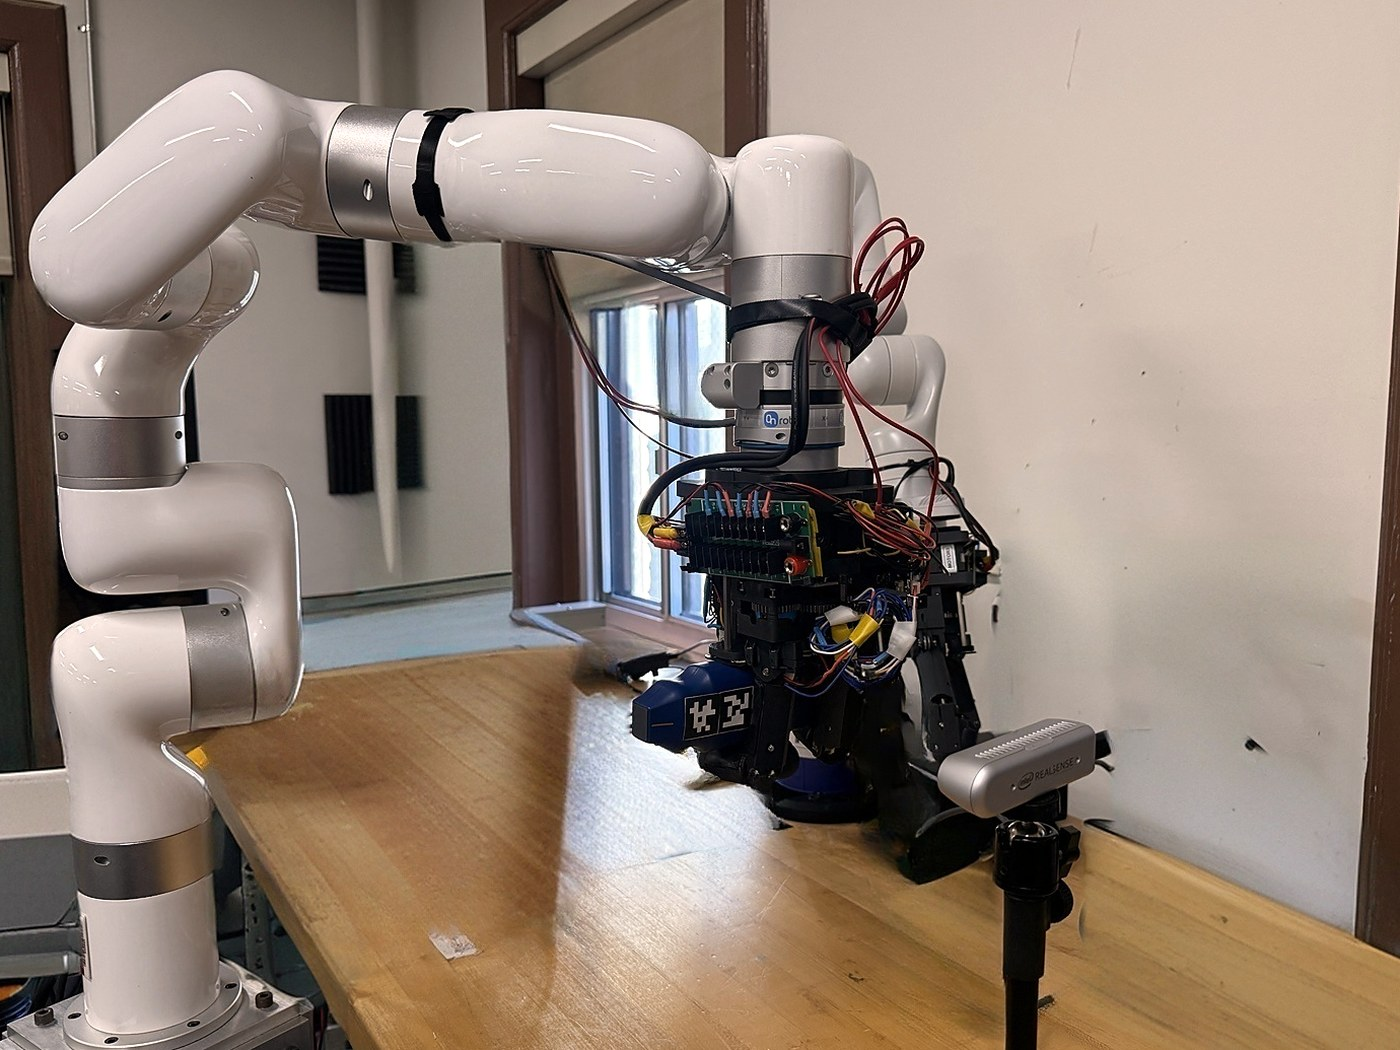
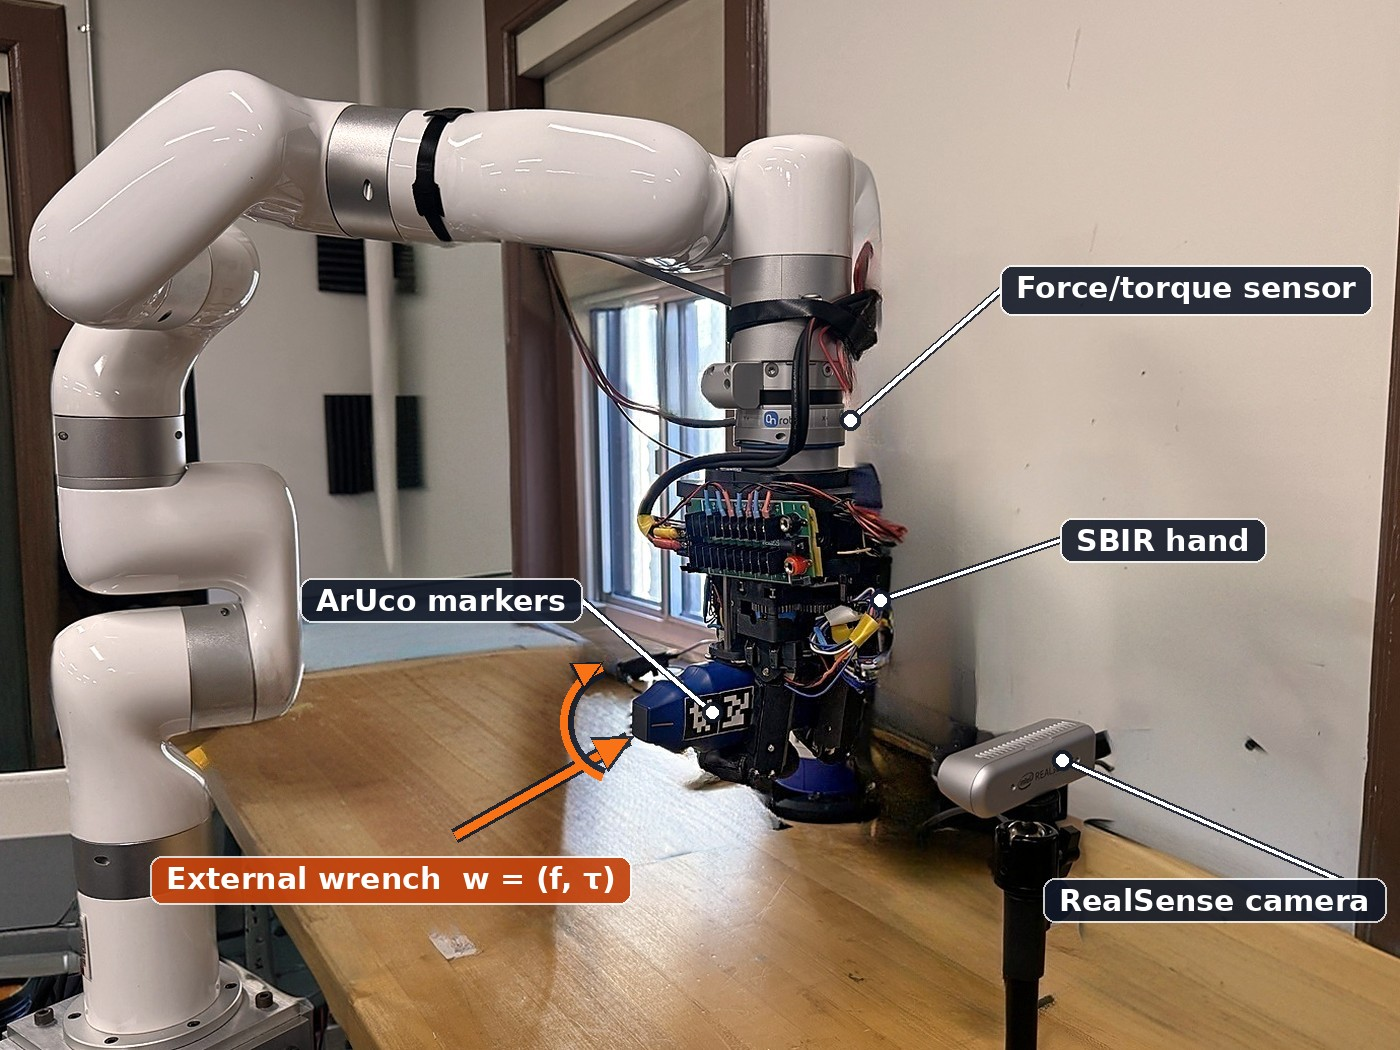
feat: Labelled hardware setup and live tracking view on grasp page
Setup photo now has the second arm and hand removed, the SBIR hand
brightened, labels for the F/T sensor, SBIR hand, ArUco markers and
RealSense camera, and the applied external wrench; shown beside the
live ArUco tracking screen.

diff --git a/_projects/8_mapscoff.md b/_projects/8_mapscoff.md
@@ -476,12 +476,19 @@ _styles: |
     color: var(--global-hover-text-color) !important;
   }
 
-  .gc-photo {
-    max-width: 760px;
-    margin: 1.2rem auto 1.6rem;
+  .gc-photo-pair {
+    display: grid;
+    grid-template-columns: minmax(0, 1.15fr) minmax(0, 1fr);
+    gap: 1rem;
+    align-items: center;
+    margin: 1.2rem 0 1.6rem;
   }
 
-  .gc-photo img {
+  .gc-photo-pair figure {
+    margin: 0;
+  }
+
+  .gc-photo-pair img {
     display: block;
     width: 100%;
     height: auto;
@@ -489,7 +496,7 @@ _styles: |
     border-radius: 10px;
   }
 
-  .gc-photo figcaption {
+  .gc-photo-pair figcaption {
     margin-top: 0.5rem;
     color: var(--global-text-color-light);
     font-size: 0.86rem;
@@ -499,7 +506,8 @@ _styles: |
   @media (max-width: 780px) {
     .gc-protocol,
     .gc-compare,
-    .gc-benchmarks {
+    .gc-benchmarks,
+    .gc-photo-pair {
       grid-template-columns: 1fr;
     }
     .gc-pipe-arrow {
@@ -524,10 +532,16 @@ _styles: |
 
 <p>The paper, <em>Few-Shot Grasp Compliance Identification Across Robot Hands</em>, first adapts positive-semidefinite (PSD) least squares to grasps, then proposes <strong>MAPS</strong>, a maximum a posteriori estimator whose prior is learned from other hands' identified compliances. Its selective variant, <strong>S-MAP</strong>, drops that prior when a grasp's own load tests contradict it. The main study covers six hands in two physics engines, and a first <strong>hardware pilot on the real SBIR hand</strong> applies a prior learned only in simulation, without retraining.</p>
 
-<figure class="gc-photo">
-  <img src="{{ '/assets/img/projects/mapscoff/hardware-setup.jpg' | relative_url }}" alt="SBIR hand on an xArm7 with a wrist force/torque sensor, holding an ArUco-tagged ultrasound probe in front of a RealSense camera">
-  <figcaption>Hardware setup: the SBIR hand on an xArm7 with a wrist force/torque sensor grasps an ultrasound probe carrying ArUco tags, tracked by a RealSense camera. Each load case is a push on the grasped probe: the wrist sensor measures the load and the tag gives the probe's motion relative to the hand.</figcaption>
-</figure>
+<div class="gc-photo-pair">
+  <figure>
+    <img src="{{ '/assets/img/projects/mapscoff/hardware-setup.jpg' | relative_url }}" alt="SBIR hand on an xArm7 with a wrist force/torque sensor, holding an ArUco-tagged ultrasound probe in front of a RealSense camera; an external wrench is applied to the probe">
+    <figcaption><strong>(a) Hardware setup.</strong> The SBIR hand on an xArm7 grasps an ultrasound probe carrying ArUco markers. Each load case is an external wrench $w=(f,\tau)$ applied to the probe: the wrist force/torque sensor measures it, and the RealSense camera tracks the probe's motion relative to the hand.</figcaption>
+  </figure>
+  <figure>
+    <img src="{{ '/assets/img/projects/mapscoff/hardware-tracking.jpg' | relative_url }}" alt="Live ArUco tracking interface showing the tag overlay with pose readouts and the raw colour image of the pushed probe">
+    <figcaption><strong>(b) Live tracking during a push.</strong> Tag poses and displacement in the camera frame (left, overlay with readouts; right, raw colour), paired with the compensated wrist wrench.</figcaption>
+  </figure>
+</div>
 
 <div class="gc-metrics">
   <div class="gc-metric"><strong>3 loads</strong><span>Load tests per grasp, against ≥7 needed without a prior</span></div>
